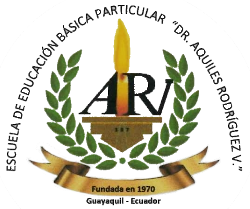
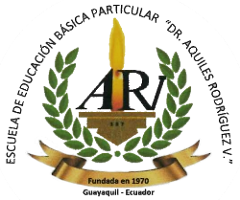
mejoras finales

diff --git a/sistema_ue_arv/WebContent/ejemplo.html b/sistema_ue_arv/WebContent/ejemplo.html
@@ -9,7 +9,7 @@
 			<tbody>
 				<tr>
 					<td style="width: 20%">
-						<img src="/sistema_ue_arv/recursos/images/ESCUELA_ARV2.png" height="80">
+						<img src="#{general.logoEscuela}" height="80">
 					</td> 					
 					<td style="width: 80%" align="center">
 						<div id="nreporte">

diff --git a/sistema_ue_arv/src/main/java/com/ups/uearv/servicios/EmailClient.java b/sistema_ue_arv/src/main/java/com/ups/uearv/servicios/EmailClient.java
@@ -4,14 +4,16 @@ import javax.mail.*;
 import javax.mail.internet.InternetAddress;
 import javax.mail.internet.MimeMessage;
 
+import com.ups.uearv.entidades.InfoEscuela;
+
 import java.io.UnsupportedEncodingException;
 import java.util.Properties;
 
 public class EmailClient {
-	private static final String senderEmail = "info.medicita@gmail.com";// change with your sender email
-	private static final String senderPassword = "medicita.info";// change with your sender password
+	private static String senderEmail; // change with your sender email
+	private static String senderPassword; // change with your sender password
 
-	public static void sendAsHtml(String personal, String to, String title, String html) {
+	public static void sendAsHtml(String personal, String to, String title, String html) {		
 		System.out.println("Enviando correo a " + to);
 
 		javax.mail.Session session = createSession();
@@ -21,16 +23,16 @@ public class EmailClient {
 		try {
 			prepareEmailMessage(message, personal, to, title, html);
 		} catch (UnsupportedEncodingException e) {
-			e.printStackTrace();
+			System.out.println("Error: " + e.getMessage() + " Causa: " + e.getCause());
 		} catch (MessagingException e) {
-			e.printStackTrace();
+			System.out.println("Error: " + e.getMessage() + " Causa: " + e.getCause());
 		}
 
 		// sending message
 		try {
 			Transport.send(message);
 		} catch (MessagingException e) {
-			e.printStackTrace();
+			System.out.println("Error: " + e.getMessage() + " Causa: " + e.getCause());
 		}
 		System.out.println("Listo");
 	}
@@ -44,6 +46,12 @@ public class EmailClient {
 	}
 
 	private static javax.mail.Session createSession() {
+		// OBTIENE CREDENCIALES GMAIL
+		InfoEscuela ie = (InfoEscuela) DAO.buscarObject(new InfoEscuela(), "from InfoEscuela c where c.codigo = 7");
+		senderEmail = ie.getValor();		
+		ie = (InfoEscuela) DAO.buscarObject(new InfoEscuela(), "from InfoEscuela c where c.codigo = 8");
+		senderPassword = ie.getValor();
+				
 		Properties props = new Properties();
 		props.put("mail.smtp.auth", "true");// Outgoing server requires authentication
 		props.put("mail.smtp.ssl.trust", "smtp.gmail.com");

diff --git a/sistema_ue_arv/src/main/java/com/ups/uearv/bean/General.java b/sistema_ue_arv/src/main/java/com/ups/uearv/bean/General.java
@@ -23,6 +23,7 @@ import javax.persistence.Persistence;
 import org.primefaces.context.RequestContext;
 
 import com.ups.uearv.entidades.CatalogoDet;
+import com.ups.uearv.entidades.InfoEscuela;
 import com.ups.uearv.entidades.SegUsuario;
 import com.ups.uearv.servicios.DAO;
 import com.ups.uearv.servicios.Session;
@@ -111,6 +112,25 @@ public class General implements Serializable {
 			return "";
 		}		
 	}
+	
+	// OBTENER LOGO ESCUELA
+	public String getLogoEscuela() {
+		try {
+			InfoEscuela ie = (InfoEscuela) DAO.buscarObject(new InfoEscuela(), "from InfoEscuela c where c.codigo = 6");
+			return ie.getValor().trim();	
+		} catch (Exception e) {
+			return "";
+		}		
+	}
+	
+	public String infoEscuela(int cod) {
+		try {
+			InfoEscuela ie = (InfoEscuela) DAO.buscarObject(new InfoEscuela(), "from InfoEscuela c where c.codigo = " + cod);
+			return ie.getValor().trim();	
+		} catch (Exception e) {
+			return "";
+		}		
+	}		
 
 	// OBTENER FECHA EN FORMATO
 	public String getFechaString(Date f) {

diff --git a/sistema_ue_arv/src/main/java/com/ups/uearv/entidades/InfoEscuela.java b/sistema_ue_arv/src/main/java/com/ups/uearv/entidades/InfoEscuela.java
@@ -1,0 +1,51 @@
+package com.ups.uearv.entidades;
+
+import java.io.Serializable;
+import javax.persistence.*;
+
+
+/**
+ * The persistent class for the catalogo_cab database table.
+ * 
+ */
+@Entity
+@Table(name="info_escuela")
+@NamedQuery(name="InfoEscuela.findAll", query="SELECT c FROM InfoEscuela c")
+public class InfoEscuela implements Serializable {
+	private static final long serialVersionUID = 1L;
+
+	@Id
+	private String codigo;
+
+	private String descripcion;
+
+	private String valor;
+	
+
+	public InfoEscuela() {
+	}
+
+	public String getCodigo() {
+		return codigo;
+	}
+
+	public void setCodigo(String codigo) {
+		this.codigo = codigo;
+	}
+
+	public String getDescripcion() {
+		return descripcion;
+	}
+
+	public void setDescripcion(String descripcion) {
+		this.descripcion = descripcion;
+	}
+
+	public String getValor() {
+		return valor;
+	}
+
+	public void setValor(String valor) {
+		this.valor = valor;
+	}
+}
